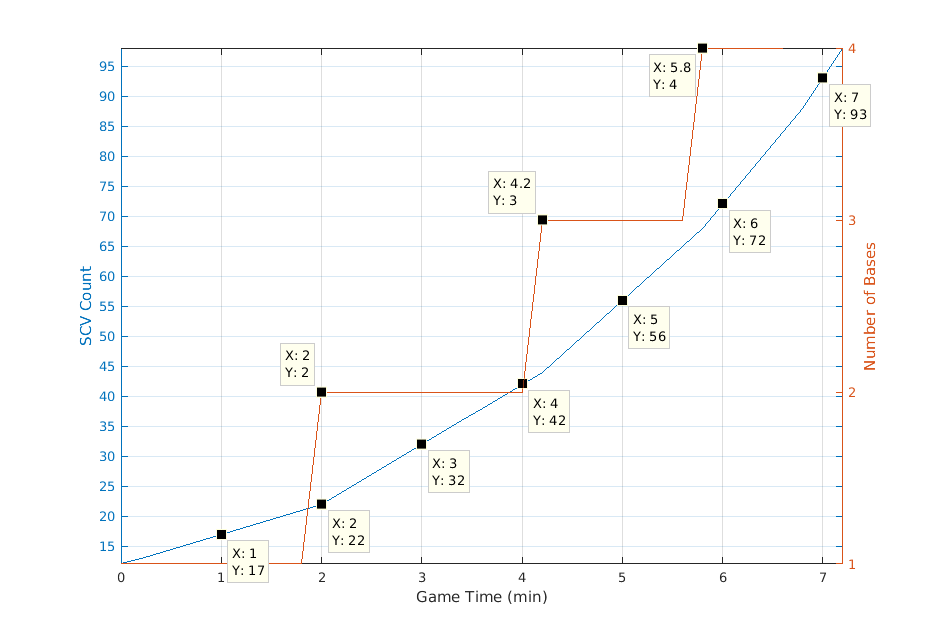
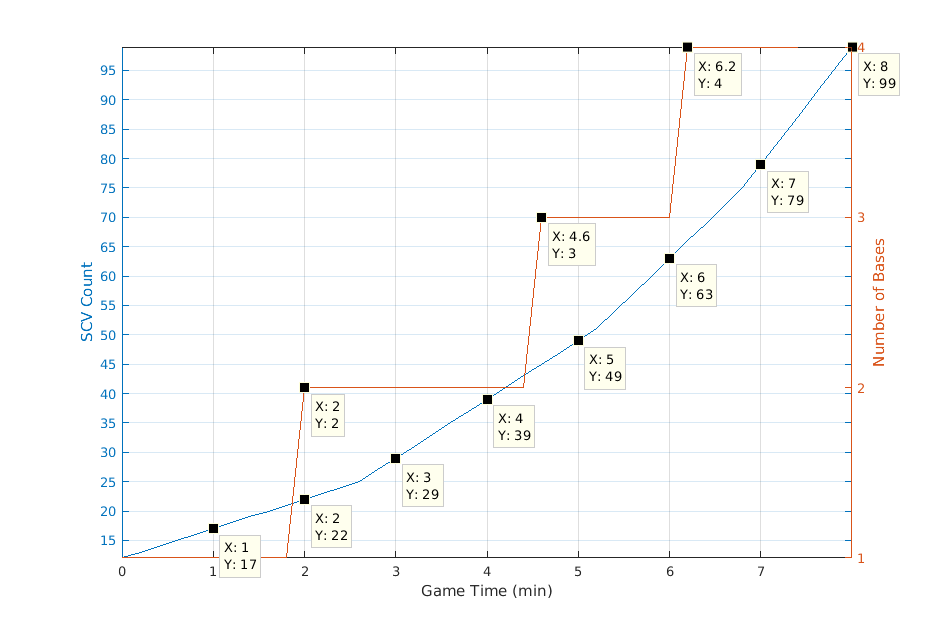
Expo Timing

Changed region(s): [[0.0623, 0.0606, 0.9656, 0.9697]]

diff --git a/expo/worst.m b/expo/worst.m
@@ -4,18 +4,52 @@ close all;
 t = 0;
 x = 12;
 
+%first_expotiming = 0;       % "Perfect"
+%first_expotiming = 60 + 71; % CC First
+%first_expotiming = 60 + 45 + 71; % Reaper Expo
+%first_expotiming = 3*60 + 30 + 71; % Cloakshee
+first_expotiming = 3*60 + 30 + 71; % Cloakshee
+
 while x<100
-    nbases = floor(x(end)/22)+1;
+    % Firxt Expo Constraint
+    if( t(end) < first_expotiming+25 )
+        production = 1;
+    else
+        % Calculate number of bases
+        bases = floor(x/22) + 1;
+        bases( t<first_expotiming ) = 1;
+
+        % Find time of last CC completion
+        idx = find(diff( bases ),1,'last');
+
+        if( isempty(idx) )
+            production = 1;
+        else
+            production = bases(end);
+            tidx = t(idx) + 12 + 25;
+            if( t(end) < tidx )
+                production = production - 1;
+            end
+        end
+    end
+
     t(end+1) = t(end) + 12;
-    x(end+1) = x(end) + nbases;
+    x(end+1) = x(end) + production;
 end
 
 t = t(1:(end-1));
 x = x(1:(end-1));
 
 nbases = floor(x/22) + 1;
+nbases( t<first_expotiming ) = 1;
 
-figure;
+% Get Expo Times
+texp = t( find(diff(nbases)) )+12-71;
+for i=1:length(texp)
+    fprintf('Expo %d at %02d:%02d\n',i+1,floor(texp(i)/60),mod(texp(i),60));
+end
+
+figure('Position',[ 902  -327   931   634 ]);
 ax = plotyy(t/60,x,t/60,nbases);
 xlabel('Game Time (min)');
 xlim(ax(1),[min(t) max(t)]/60);
@@ -27,3 +61,4 @@ ylabel(ax(2),'Number of Bases');
 set(ax(1),'xtick',[0 1 2 3 4 5 6 7]);
 set(ax(1),'ytick',[15 20 25 30 35 40 45 50 55 60 65 70 75 80 85 90 95]);
 set(ax(2),'ytick',[0 1 2 3 4]);
+grid;

diff --git a/expo/main.md b/expo/main.md
@@ -1,33 +1,76 @@
 # Expansion Timing and Worker Count
 
-These notes detail the absolute latest
-you should have your expansion at and
-the worker counts you should have over
-game time.  It assumes that expansions
+These notes detail when you should build your expansion
+and the worker counts you should have over
+game time.  The analysis assumes that expansions
 should be built such that when the
 expansion finishes, all your previous
 bases are fully saturated (2 SCVs/mineral
 and 3 SCVs/gas) under constant worker production
 and full gas saturation.  There are 8 mineral
-patches and 2 gas geysers so 22 SCVs per base
-for full saturation.  Terran starts with
+patches and 2 gas geysers so 22 SCVs are needed
+per base for full saturation.  Terran starts with
 12 SCVs and the build time of each SCV is 12
-seconds.
+seconds.  The build time for a command center
+is 71 seconds.  It takes an additional 25 seconds to
+convert it to an orbital command.  For the sake of petty humans,
+it is assumed SCVs are made synchronously at
+12 seconds increments.
 
-## Worst Case
+## Perfect Expansion Timing
 
-The worst case expansion timing assumes that
+The perfect expansion timing assumes that
 expansions start building such that
-when it finishes, all previous bases are
+when they finish, all previous bases are
 saturated under constant worker production.
 
 Base | Start Construction
 ---- | ------------------
- 1   |  
- 2   | 
- 3   | 
- 4   | 
+ 2   | 00:49
+ 3   | 03:25
+ 4   | 05:01
+ 5   | 06:25
 
 ![Expo Timing](expo.png)
 
+## Expansion First
+Perfect expansion timing is impossible to achieve
+because its impossible to get a command center
+down at 00:49 while constantly producing SCVs.
+With a CC first build the fastest you can get a
+command center down is at 01:00.
+
+Base | Start Construction
+---- | ------------------
+ 2   | 01:00
+ 3   | 03:25
+ 4   | 05:13
+ 5   | 06:25
+
+![CC First](ccfirst.png)
+
 ## Reaper Expand
+A CC first could be dangerous if you were
+getting all-in'd.  A reaper expansion
+(depot, rax, gas, CC) gives you the ability
+to scout the opponent at the cost of a
+delayed expansion.
+
+Base | Start Construction
+---- | ------------------
+ 2   | 01:45
+ 3   | 03:49
+ 4   | 05:37
+ 5   | 06:49
+
+![Reaper Expo](reaper.png)
+
+## 1-1-1 Builds
+1-1-1 builds give expos at approx 3:30.
+
+Base | Start Construction
+---- | ------------------
+ 2   | 03:37
+ 3   | 04:49
+ 4   | 06:25
+ 5   | 07:49
